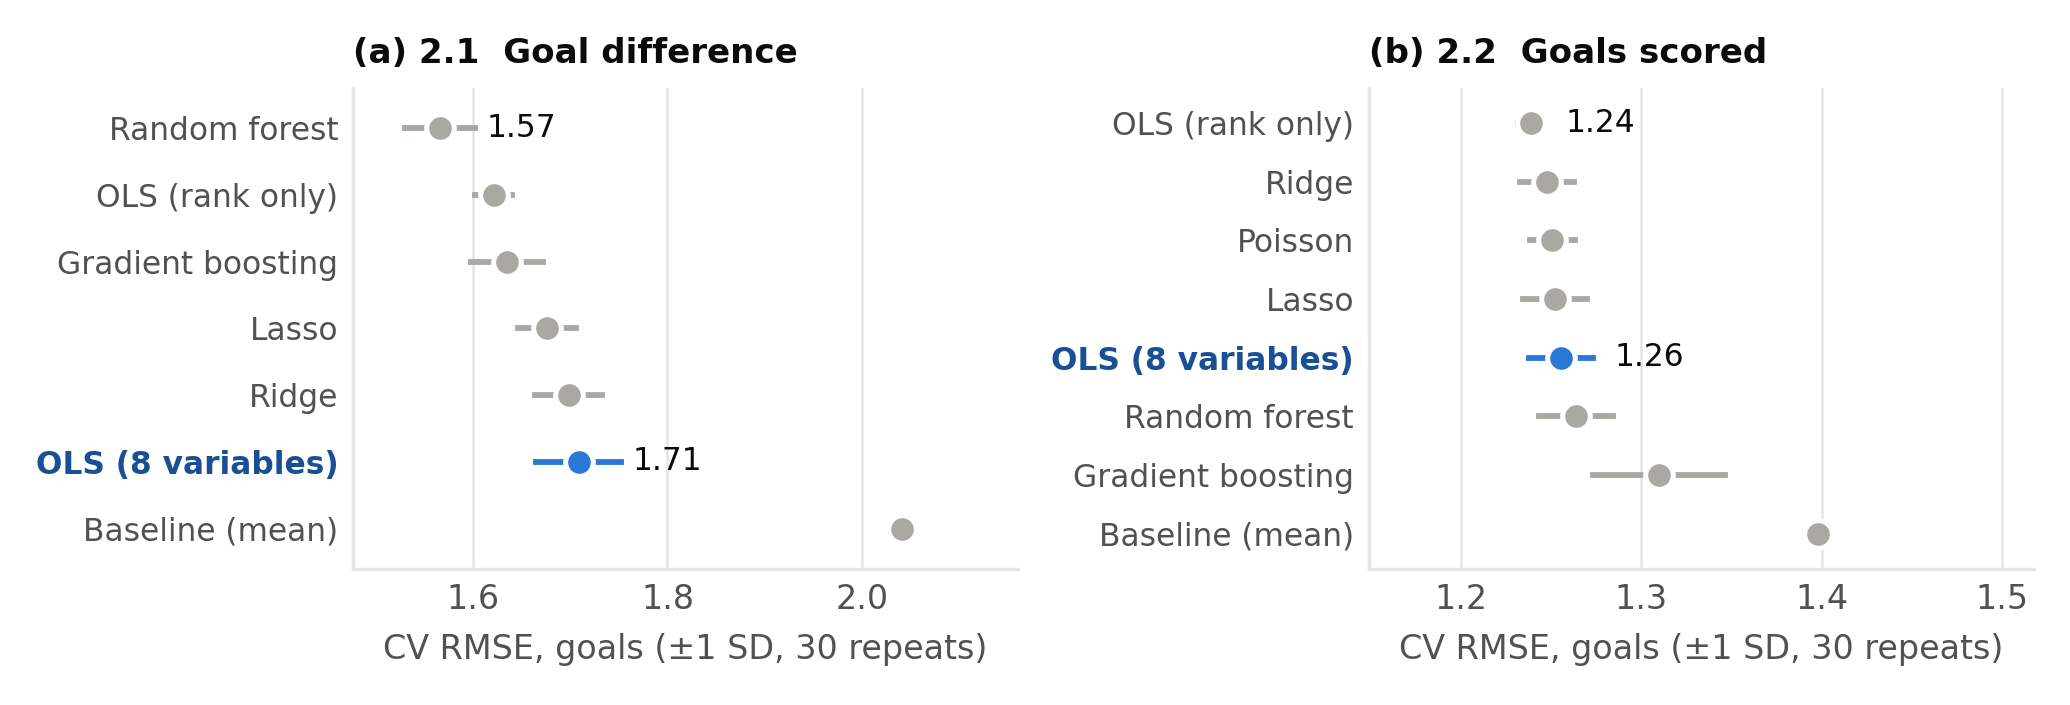
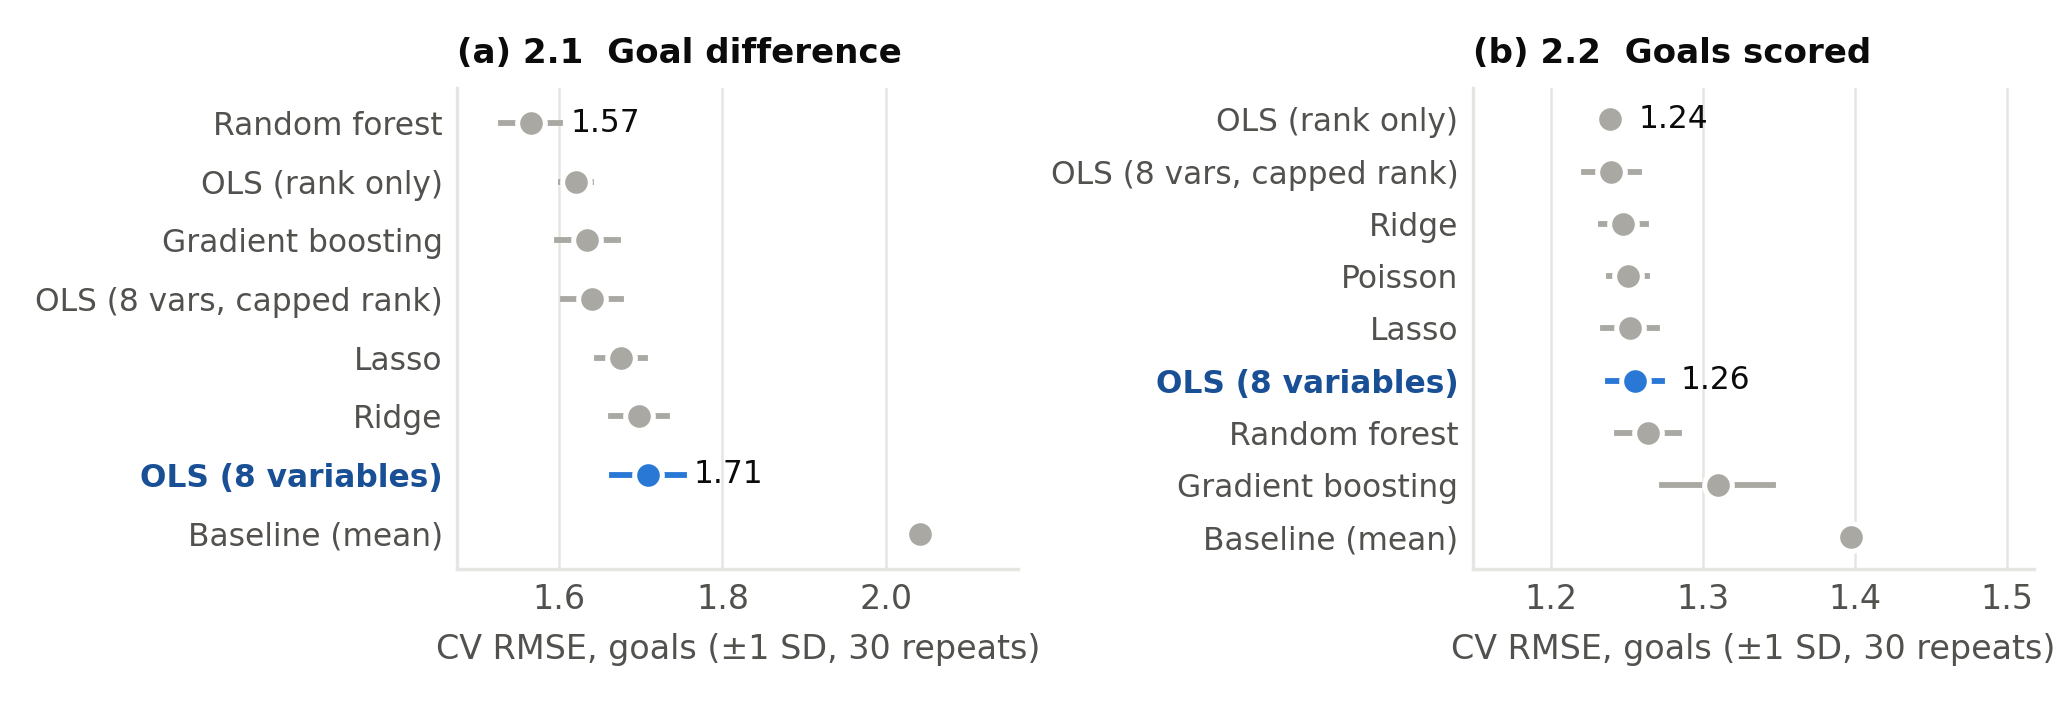
Update Correlations

diff --git a/README.md b/README.md
@@ -1,18 +1,6 @@
-# FIFA World Cup 2026 – Objective 2: Linear Regression (Assessment 3)
+# FIFA World Cup 2026 – Objective 2: Linear Regression (PRT582 Assessment 3)
 
 Two linear regression models built from pre-match information only:
-
-## Folder layout
-```
-data/      matches_raw.csv, team_info.csv        (source data we compiled)
-           matches_104.csv, team_matches_208.csv (datasets built by step 1)
-scripts/   step1_build_datasets.py               build the two datasets (no future information used)
-           step2_goal_difference_model.py        Task 2.1 model + model comparison
-           step3_goals_scored_model.py           Task 2.2 model + model comparison
-           step4_make_charts.py                  the two figures used in the report
-           model_helpers.py                      small helper functions used by steps 2 and 3
-outputs/   fig1_ranking_story.png, fig2_model_comparison.png, results/*.csv
-```
 
 ## How to run
 ```
